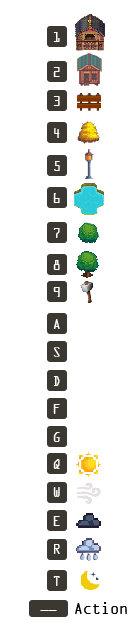
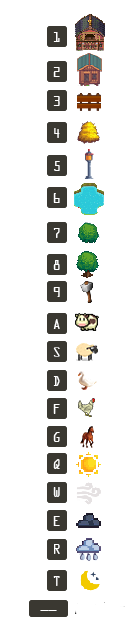
Update side menu, ensure player spends equal or less they can afford

diff --git a/AnimalFarm/src/animalfarm/DecorationFactory.java b/AnimalFarm/src/animalfarm/DecorationFactory.java
@@ -10,35 +10,59 @@ package animalfarm;
  */
 public class DecorationFactory {
 
-    public Decoration createDecoration(ElementEnum decorationType) {
+    public Decoration createDecoration(ElementEnum decorationType, boolean isStart) {
         if (decorationType == null) {
             return null;
         }
         if (decorationType == ElementEnum.BARN) {
-            Farm.setCurrency(Farm.getCurrencyInstance() - 50);
+            if (!isStart) {
+                if (Farm.getCurrencyInstance() < 50) return null;
+                Farm.setCurrency(Farm.getCurrencyInstance() - 50);
+            }
             return new Barn();
         } else if (decorationType == ElementEnum.BUSH) {
-            Farm.setCurrency(Farm.getCurrencyInstance() - 5);
+            if (!isStart) {
+                if (Farm.getCurrencyInstance() < 5) return null;
+                Farm.setCurrency(Farm.getCurrencyInstance() - 5);
+            }
             return new Bush();
         } else if (decorationType == ElementEnum.COOP) {
-            Farm.setCurrency(Farm.getCurrencyInstance() - 10);
+            if (!isStart) {
+                if (Farm.getCurrencyInstance() < 10) return null;
+                Farm.setCurrency(Farm.getCurrencyInstance() - 10);
+            }
             return new Coop();
         } else if (decorationType == ElementEnum.DELETE) {
             return new Delete();
         } else if (decorationType == ElementEnum.FENCE) {
-            Farm.setCurrency(Farm.getCurrencyInstance() - 2);
+            if (!isStart) {
+                if (Farm.getCurrencyInstance() < 2) return null;
+                Farm.setCurrency(Farm.getCurrencyInstance() - 2);
+            }
             return new Fence();
         } else if (decorationType == ElementEnum.HAYSTACK) {
-            Farm.setCurrency(Farm.getCurrencyInstance() - 2);
+            if (!isStart) {
+                if (Farm.getCurrencyInstance() < 2) return null;
+                Farm.setCurrency(Farm.getCurrencyInstance() - 2);
+            }
             return new Haystack();
         } else if (decorationType == ElementEnum.LIGHT) {
-            Farm.setCurrency(Farm.getCurrencyInstance() - 25);
+            if (!isStart) {
+                if (Farm.getCurrencyInstance() < 25) return null;
+                Farm.setCurrency(Farm.getCurrencyInstance() - 25);
+            }
             return new Light();
         } else if (decorationType == ElementEnum.POND) {
-            Farm.setCurrency(Farm.getCurrencyInstance() - 50);
+            if (!isStart) {
+                if (Farm.getCurrencyInstance() < 40) return null;
+                Farm.setCurrency(Farm.getCurrencyInstance() - 40);
+            }
             return new Pond();
         } else if (decorationType == ElementEnum.TREE) {
-            Farm.setCurrency(Farm.getCurrencyInstance() - 25);
+            if (!isStart) {
+                if (Farm.getCurrencyInstance() < 20) return null;
+                Farm.setCurrency(Farm.getCurrencyInstance() - 20);
+            }
             return new Tree();
         }
         return null;

diff --git a/AnimalFarm/src/animalfarm/AnimalFactory.java b/AnimalFarm/src/animalfarm/AnimalFactory.java
@@ -9,25 +9,40 @@ package animalfarm;
  * @author haneyiskdr
  */
 public class AnimalFactory {
-    public Animal createAnimal(ElementEnum animalType) {
+    public Animal createAnimal(ElementEnum animalType, boolean isStart) {
 
         if (animalType == null) {
             return null;
         }
         if (animalType == ElementEnum.CHICKEN) {
-            Farm.setCurrency(Farm.getCurrencyInstance() - 1);
+            if (!isStart) {
+                if (Farm.getCurrencyInstance() < 2) return null;
+                Farm.setCurrency(Farm.getCurrencyInstance() - 2);
+            }
             return new Chicken();
         } else if (animalType == ElementEnum.COW) {
-            Farm.setCurrency(Farm.getCurrencyInstance() - 5);
+            if (!isStart) {
+                if (Farm.getCurrencyInstance() < 20) return null;
+                Farm.setCurrency(Farm.getCurrencyInstance() - 20);
+            }
             return new Cow();
         } else if (animalType == ElementEnum.DUCK) {
-            Farm.setCurrency(Farm.getCurrencyInstance() - 3);
+            if (!isStart) {
+                if (Farm.getCurrencyInstance() < 5) return null;
+                Farm.setCurrency(Farm.getCurrencyInstance() - 5);
+            }
             return new Duck();
         } else if (animalType == ElementEnum.HORSE) {
-            Farm.setCurrency(Farm.getCurrencyInstance() - 10);
+            if (!isStart) {
+                if (Farm.getCurrencyInstance() < 40) return null;
+                Farm.setCurrency(Farm.getCurrencyInstance() - 40);
+            }
             return new Horse();
         } else if (animalType == ElementEnum.SHEEP) {
-            Farm.setCurrency(Farm.getCurrencyInstance() - 8);
+            if (!isStart) {
+                if (Farm.getCurrencyInstance() < 10) return null;
+                Farm.setCurrency(Farm.getCurrencyInstance() - 10);
+            }
             return new Sheep();
         } 
         return null;

diff --git a/AnimalFarm/src/animalfarm/AnimalFarm.java b/AnimalFarm/src/animalfarm/AnimalFarm.java
@@ -16,19 +16,19 @@ public class AnimalFarm {
     public AnimalFarm() {
         afactory = new AnimalFactory();
         dfactory = new DecorationFactory();
-        barn = dfactory.createDecoration(ElementEnum.BARN);
-        bush = dfactory.createDecoration(ElementEnum.BUSH);
-        coop = dfactory.createDecoration(ElementEnum.COOP);
-        haystack = dfactory.createDecoration(ElementEnum.HAYSTACK);
-        light = dfactory.createDecoration(ElementEnum.LIGHT);
-        pond = dfactory.createDecoration(ElementEnum.POND);
-        tree = dfactory.createDecoration(ElementEnum.TREE);
+        barn = dfactory.createDecoration(ElementEnum.BARN, true);
+        bush = dfactory.createDecoration(ElementEnum.BUSH, true);
+        coop = dfactory.createDecoration(ElementEnum.COOP, true);
+        haystack = dfactory.createDecoration(ElementEnum.HAYSTACK, true);
+        light = dfactory.createDecoration(ElementEnum.LIGHT, true);
+        pond = dfactory.createDecoration(ElementEnum.POND, true);
+        tree = dfactory.createDecoration(ElementEnum.TREE, true);
 
-        chicken = afactory.createAnimal(ElementEnum.CHICKEN);
-        cow = afactory.createAnimal(ElementEnum.COW);
-        duck = afactory.createAnimal(ElementEnum.DUCK);
-        horse = afactory.createAnimal(ElementEnum.HORSE);
-        sheep = afactory.createAnimal(ElementEnum.SHEEP);
+        chicken = afactory.createAnimal(ElementEnum.CHICKEN, true);
+        cow = afactory.createAnimal(ElementEnum.COW, true);
+        duck = afactory.createAnimal(ElementEnum.DUCK, true);
+        horse = afactory.createAnimal(ElementEnum.HORSE, true);
+        sheep = afactory.createAnimal(ElementEnum.SHEEP, true);
         farm = new Farm(barn, bush, coop, haystack, light, pond, tree, chicken, cow, duck, horse, sheep); 
         
         weather = new WeatherFacade(farm, tree, light, bush);

diff --git a/AnimalFarm/src/animalfarm/KeyHandler.java b/AnimalFarm/src/animalfarm/KeyHandler.java
@@ -67,9 +67,9 @@ public class KeyHandler implements KeyListener {
                 }
             }
             if (this.decoration != null) {
-                farm.setElement(dfactory.createDecoration(currentElementEnum), farm.x, farm.y);
+                farm.setElement(dfactory.createDecoration(currentElementEnum, false), farm.x, farm.y);
             } else {
-                farm.setElement(afactory.createAnimal(currentElementEnum), farm.x, farm.y);
+                farm.setElement(afactory.createAnimal(currentElementEnum, false), farm.x, farm.y);
             }
             System.out.println("Current currency is " + Farm.getCurrencyInstance());
             farm.setCurrentElementEnum(ElementEnum.EMPTY);
@@ -134,7 +134,7 @@ public class KeyHandler implements KeyListener {
         }
         if (code == KeyEvent.VK_9) {
             farm.setAllFalse();
-            this.decoration = dfactory.createDecoration(ElementEnum.DELETE);
+            this.decoration = dfactory.createDecoration(ElementEnum.DELETE, false);
             farm.setIsDelete(true);
         }
 

diff --git a/AnimalFarm/src/animalfarm/Farm.java b/AnimalFarm/src/animalfarm/Farm.java
@@ -175,7 +175,7 @@ public class Farm extends JPanel implements ActionListener {
         el.getMenu().paintIcon(this, g, 19 * size + 100, 25);
         g.setFont(derivedFont); 
         g.setColor(Color.WHITE);
-        g.drawString("$" + String.valueOf(Farm.currency), 910,30);
+        g.drawString("$" + String.valueOf(Farm.currency), 940,30);
     }
 
     public void draw(Element element, Graphics g, int row, int col){
